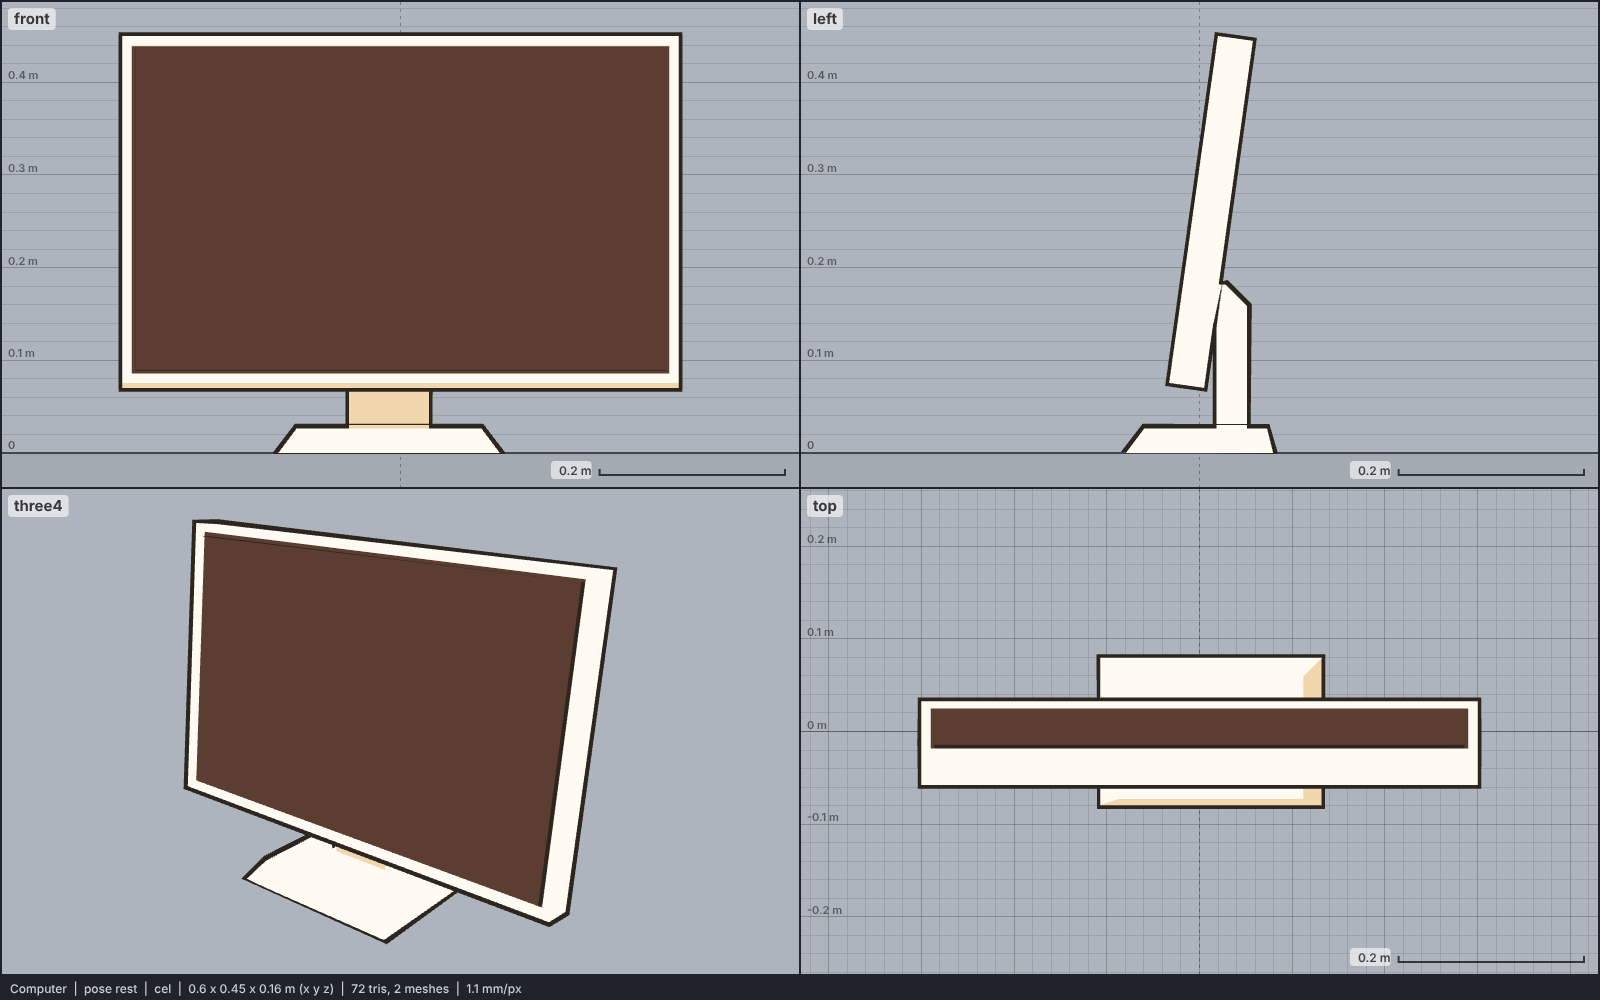
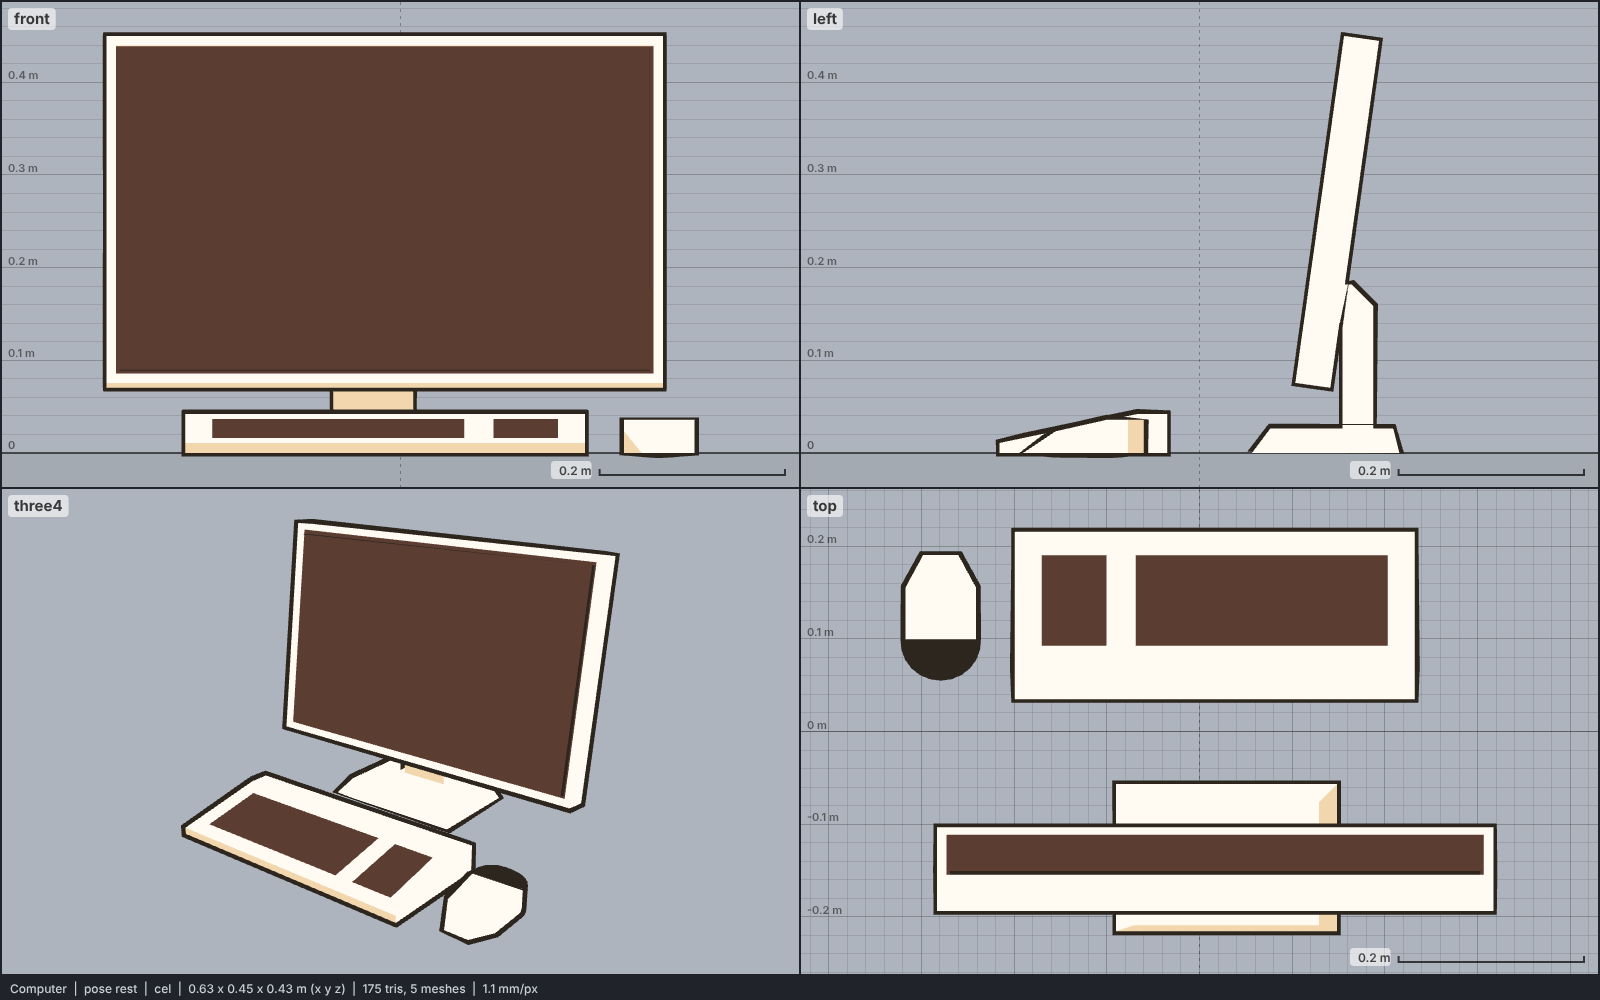
Library: computer gets its keyboard and mouse (ingest.attach kit pieces)
Claude-Session: https://claude.ai/code/session_01RarBCdt4E1fNHHaUKaW5GL

diff --git a/models/CATALOG.md b/models/CATALOG.md
@@ -9,4 +9,4 @@
 
 | preview | id | model | height | tris | clips | licence | source |
 | --- | --- | --- | --- | --- | --- | --- | --- |
-| <img src="library/computer/preview.png" width="240"> | `computer` | Computer<br>*low-poly, flat colours (Kenney Furniture Kit 2.0)* | 0.45 m | 72 | - | CC0 1.0 | [Kenney · Furniture Kit](https://kenney.nl/assets/furniture-kit) |
+| <img src="library/computer/preview.png" width="240"> | `computer` | Computer<br>*low-poly, flat colours (Kenney Furniture Kit 2.0)* | 0.45 m | 175 | - | CC0 1.0 | [Kenney · Furniture Kit](https://kenney.nl/assets/furniture-kit) |
